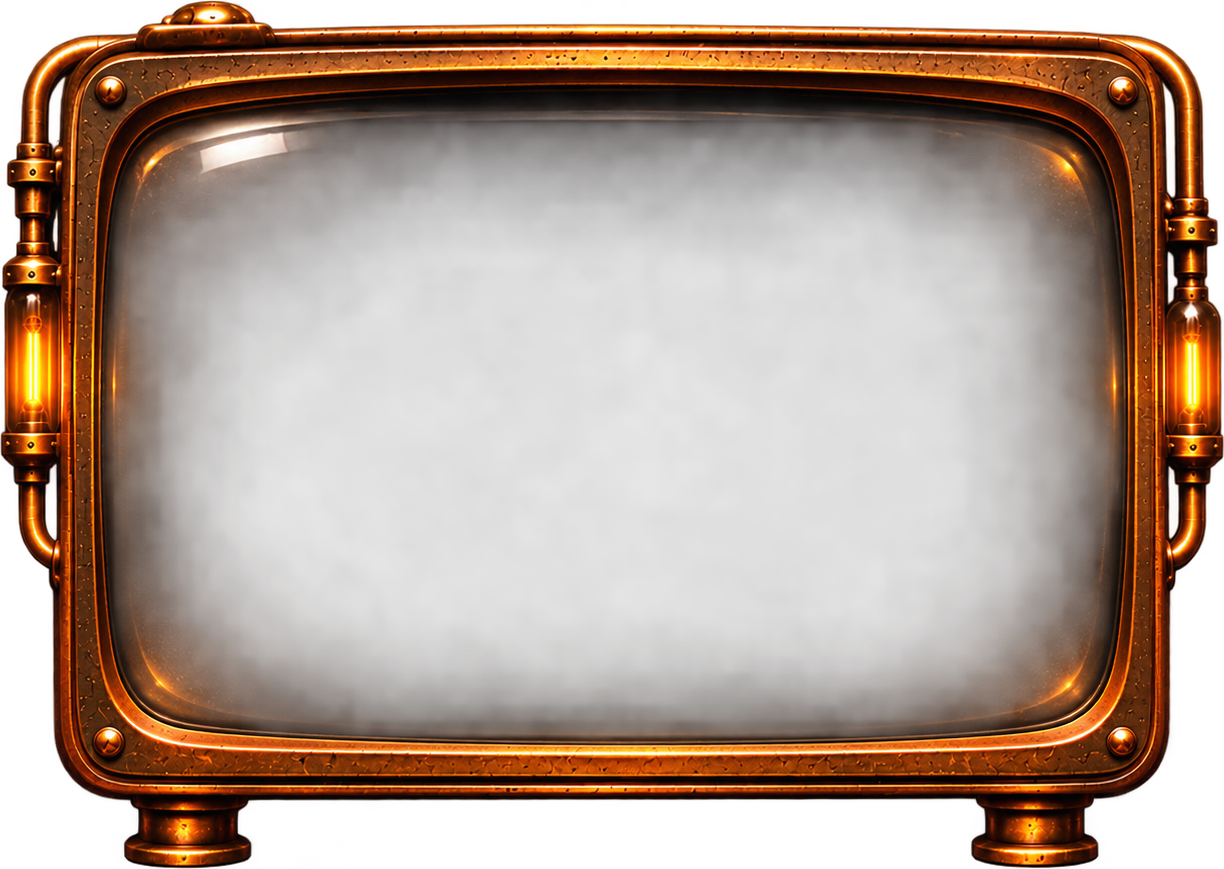
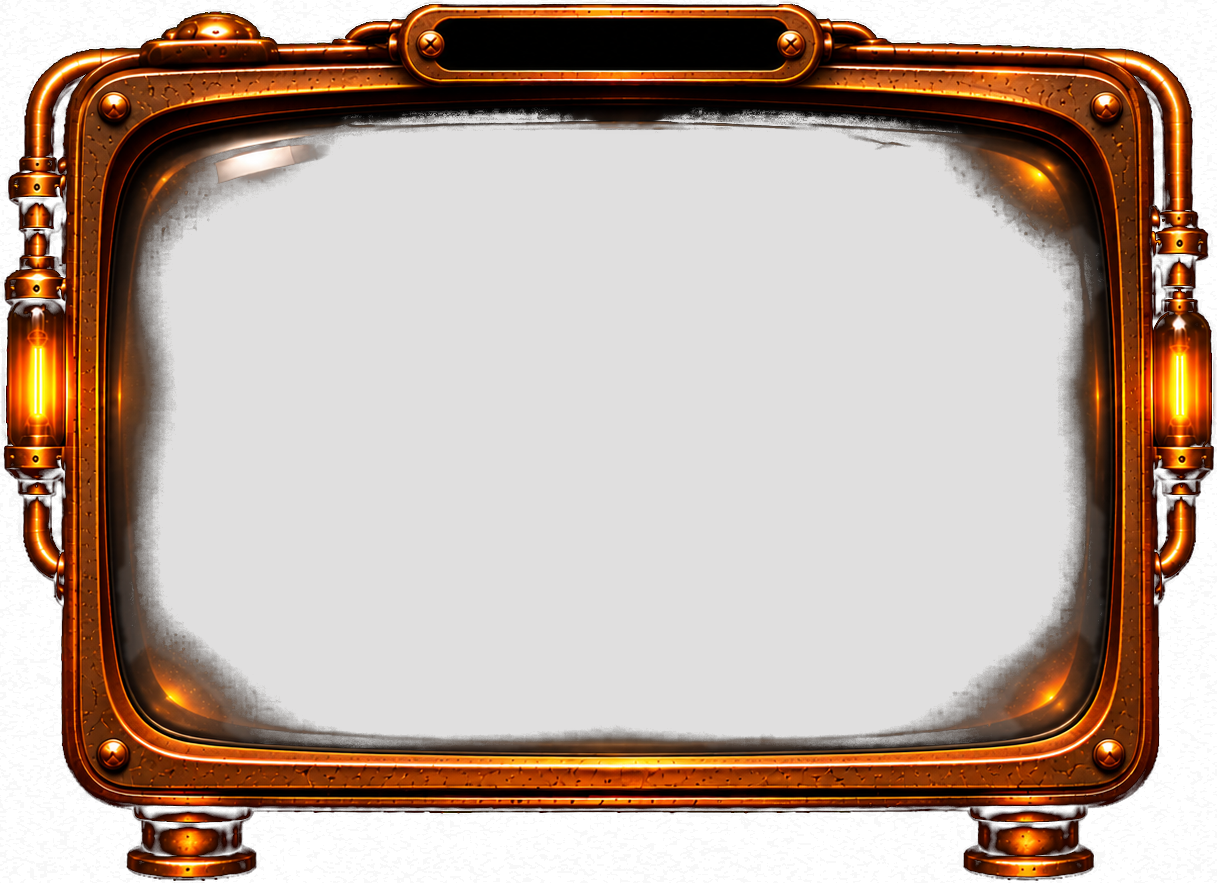
skin: yeni TV cercevesi (alfa yeniden uretildi) + ust plakada kayan sarki/sanatci yazisi

diff --git a/src/preload.js b/src/preload.js
@@ -1839,8 +1839,9 @@ if (isAutotunePage()) {
       } catch {}
     };
     // video mode: a steampunk TV frame (glass opening = the video) around the player; the player is scaled down so the whole frame fits between the guide and the side panel
-    const tv = document.createElement('div'); tv.id = 'poc-tv'; document.documentElement.appendChild(tv); const tvb = document.createElement('div'); tvb.id = 'poc-tvbg'; document.documentElement.appendChild(tvb);
-    const TV = { w: 1224, h: 869, gx: 125, gy: 125, gw: 980, gh: 610 }; // sk-tv.png (px) and its glass opening
+    const tv = document.createElement('div'); tv.id = 'poc-tv'; document.documentElement.appendChild(tv); const tvt = document.createElement('div'); tvt.id = 'poc-tvtick'; const tvs = document.createElement('span'); tvt.appendChild(tvs); tv.appendChild(tvt);
+    const tvb = document.createElement('div'); tvb.id = 'poc-tvbg'; document.documentElement.appendChild(tvb);
+    const TV = { w: 1217, h: 883, gx: 128, gy: 120, gw: 960, gh: 618 }; // sk-tv.png (px) and its glass opening
     const placeTv = () => {
       const pl = document.querySelector('ytmusic-player#player');
       const on = pl && !document.hidden && pl.getAttribute('playback-mode') === 'OMV_PREFERRED' && pl.hasAttribute('player-page-open') && pl.offsetWidth > 200;
@@ -1856,6 +1857,14 @@ if (isAutotunePage()) {
       pl.dataset.pocK = String(k); pl.style.transform = 'scale(' + k + ')'; pl.style.transformOrigin = 'center center';
       const vw = w0 * k, vh = h0 * k, sc = Math.max(vw * 1.03 / TV.gw, vh * 1.03 / TV.gh);
       tv.style.display = 'block';
+      { // name plate: scrolling "title - artist" of the playing song (plate slot is 350x50 at (438,18) in the frame image)
+        let ti = '', artist = '';
+        try { const m = navigator.mediaSession.metadata; if (m) { ti = m.title || ''; artist = m.artist || ''; } } catch {}
+        if (!ti) { try { const vd = document.getElementById('movie_player').getVideoData(); ti = vd.title || ''; artist = vd.author || ''; } catch {} }
+        const txt = (ti + (artist ? '  •  ' + artist : '')).trim() || 'YouTube Music Studio';
+        if (tvs.textContent !== txt) { tvs.textContent = txt; tvs.style.animationDuration = Math.max(9, 7 + txt.length * 0.32) + 's'; tvs.style.animation = 'none'; void tvs.offsetWidth; tvs.style.animation = ''; tvs.style.animationDuration = Math.max(9, 7 + txt.length * 0.32) + 's'; }
+        tvt.style.fontSize = Math.max(8, Math.round(26 * sc)) + 'px';
+      }
       { const ins = 14 * sc; // black backing just inside the glass opening, never outside the frame
         tvb.style.display = 'block'; tvb.style.left = Math.round(cx - (TV.gw / 2) * sc + ins) + 'px'; tvb.style.top = Math.round(cy - (TV.gh / 2) * sc + ins) + 'px';
         tvb.style.width = Math.round(TV.gw * sc - 2 * ins) + 'px'; tvb.style.height = Math.round(TV.gh * sc - 2 * ins) + 'px'; tvb.style.borderRadius = Math.round(70 * sc) + 'px'; }
@@ -3285,6 +3294,9 @@ if (isAutotunePage()) {
         ytmusic-two-column-browse-results-renderer ytmusic-responsive-header-renderer ytmusic-thumbnail-renderer.thumbnail { width: 190px !important; height: 190px !important; margin-left: auto !important; margin-right: auto !important; align-self: center !important; }
         ytmusic-player-page#player-page { background: transparent !important; }
         ytmusic-player-page #side-panel { box-sizing: border-box !important; height: calc(100vh - 290px) !important; padding: 8px 14px 12px !important; border: 26px solid transparent !important; border-image: ${T('sk-shelf-body.png')} 34 / 8px stretch !important; background: ${T('sk-listtex.jpg')} 0 0 / auto auto repeat !important; }
+        #poc-tvtick { position: absolute; left: 38.2%; top: 2.1%; width: 24.6%; height: 5.6%; overflow: hidden; -webkit-mask-image: linear-gradient(90deg, transparent, #000 9%, #000 91%, transparent); border-radius: 4px; white-space: nowrap; display: flex; align-items: center; font: 600 26px/1 'Barlow Condensed', 'Oswald', sans-serif; letter-spacing: .06em; text-transform: uppercase; color: #ffb347; text-shadow: 0 0 6px #ff8a1fcc, 0 0 14px #ff6a00aa; }
+        #poc-tvtick span { display: inline-block; padding-left: 100%; animation: poc-tick 14s linear infinite; will-change: transform; }
+        @keyframes poc-tick { from { transform: translateX(0); } to { transform: translateX(-100%); } }
         #poc-tvbg { position: fixed; display: none; pointer-events: none; z-index: 1; background: #000; }
         #poc-tv { position: fixed; display: none; pointer-events: none; z-index: 6; background: ${T('sk-tv.png')} center / 100% 100% no-repeat; filter: saturate(.62) brightness(.78); }
         i.poc-hook { position: absolute; height: 46px; pointer-events: none; z-index: 2; box-sizing: border-box; border: solid transparent; border-width: 0 24px; border-image: ${T('sk-hook.png')} 0 60 fill / 0 24px / 0 stretch; filter: drop-shadow(0 2px 3px #000c);

diff --git a/design/tools/studio_tv2.py b/design/tools/studio_tv2.py
@@ -1,0 +1,38 @@
+# TV frame v2: the supplied PNG has no alpha (black outside, checkerboard glass baked in). Rebuild alpha:
+# outside black -> transparent (flood from border), checker glass -> translucent dark glass keeping reflections, top slot stays opaque black.
+from PIL import Image
+import numpy as np
+from scipy import ndimage as ndi
+im = Image.open('design/ref/tv-frame2-ref.png').convert('RGB')
+a = np.array(im).astype(float); H, W = a.shape[:2]
+mx = a.max(axis=2); mn = a.min(axis=2); lum = a.mean(axis=2); sat = (mx - mn) / np.maximum(mx, 1)
+alpha = np.full((H, W), 255.0); out = a.copy()
+# 1) outside
+dark = mx < 60
+lab, n = ndi.label(dark)
+edge = set(np.unique(np.concatenate([lab[0], lab[-1], lab[:, 0], lab[:, -1]]))) - {0}
+outside = np.isin(lab, list(edge))
+alpha[outside] = np.clip(mx[outside] / 36.0, 0, 1) * 255
+# 2) glass (checkerboard grey)
+pas = (sat < 0.55) & (lum < 150) & ~outside
+pas = ndi.binary_opening(pas, iterations=2)
+lab, n = ndi.label(pas)
+g = lab == lab[H // 2 + 20, W // 2 - 10]
+g = ndi.binary_closing(g, iterations=12)
+g = ndi.binary_fill_holes(g)
+g = ndi.binary_erosion(g, iterations=3)
+gs = ndi.gaussian_filter(g.astype(float), 2.0)
+ys, xs = np.where(g); print('glass bbox', xs.min(), ys.min(), xs.max(), ys.max())
+w = np.clip((lum - 90) / 34.0, 0, 1)
+w = np.maximum(w, np.clip((sat - 0.18) / 0.25, 0, 1)) # orange glints
+dk = np.array([16, 10, 6], float)
+gc = dk[None, None, :] * (1 - w[..., None]) + a * w[..., None]
+ga = 34 + w * 190
+for c in range(3): out[..., c] = out[..., c] * (1 - gs) + gc[..., c] * gs
+alpha = alpha * (1 - gs) + ga * gs
+res = np.dstack([out, alpha]).clip(0, 255).astype('uint8')
+r = Image.fromarray(res, 'RGBA')
+bb = np.where(alpha > 10); x0, y0, x1, y1 = bb[1].min(), bb[0].min(), bb[1].max(), bb[0].max()
+print('frame', x0, y0, x1, y1)
+r.crop((x0, y0, x1 + 1, y1 + 1)).save('design/tex/sk-tv.png')
+open('design/tex/sk-tv.meta.txt', 'w').write(f'crop {x0} {y0} {x1+1} {y1+1}\nglass {xs.min()-x0} {ys.min()-y0} {xs.max()-x0} {ys.max()-y0}\n')
